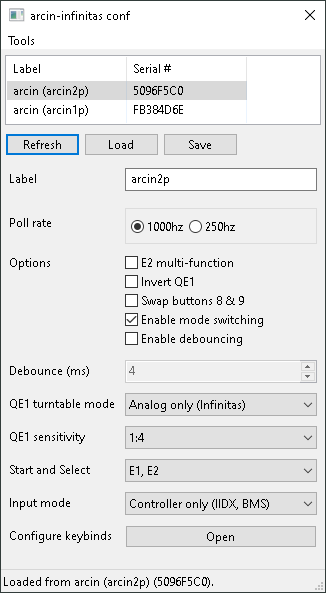
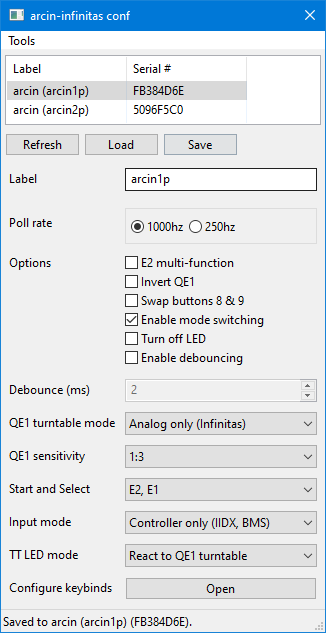
update to latest version

Changed region(s): [[0.0, 0.0, 1.0, 1.0], [0.0, 0.3339, 0.1534, 0.4553]]

diff --git a/main.py b/main.py
@@ -74,6 +74,12 @@ INPUT_MODE_OPTIONS = [
     "Both controller and keyboard"
 ]
 
+LED_OPTIONS = [
+    "Default",
+    "React to QE1 turntable",
+    "HID-controlled",
+]
+
 ARCIN_CONFIG_FLAG_SEL_MULTI_TAP          = (1 << 0)
 ARCIN_CONFIG_FLAG_INVERT_QE1             = (1 << 1)
 ARCIN_CONFIG_FLAG_SWAP_8_9               = (1 << 2)
@@ -84,6 +90,9 @@ ARCIN_CONFIG_FLAG_ANALOG_TT_FORCE_ENABLE = (1 << 6)
 ARCIN_CONFIG_FLAG_KEYBOARD_ENABLE        = (1 << 7)
 ARCIN_CONFIG_FLAG_JOYINPUT_DISABLE       = (1 << 8)
 ARCIN_CONFIG_FLAG_MODE_SWITCHING_ENABLE  = (1 << 9)
+ARCIN_CONFIG_FLAG_LED_OFF                = (1 << 10)
+ARCIN_CONFIG_FLAG_TT_LED_REACTIVE        = (1 << 11)
+ARCIN_CONFIG_FLAG_TT_LED_HID             = (1 << 12)
 
 def get_devices():
     hid_filter = hid.HidDeviceFilter(vendor_id=VID, product_id=PID)
@@ -181,6 +190,7 @@ class MainWindowFrame(wx.Frame):
     swap89_check = None
     debounce_check = None
     mode_switch_check = None
+    led_off_check = None
 
     qe1_tt_ctrl = None
     debounce_ctrl = None
@@ -190,13 +200,15 @@ class MainWindowFrame(wx.Frame):
 
     input_mode_ctrl = None
 
+    led_mode_ctrl = None
+
     keybinds_button = None
     keybinds_frame = None
 
     keycodes = None
 
     def __init__(self, *args, **kw):
-        default_size = (340, 600)
+        default_size = (340, 640)
         kw['size'] = default_size
         kw['style'] = (
             wx.RESIZE_BORDER |
@@ -299,6 +311,13 @@ class MainWindowFrame(wx.Frame):
         grid.Add(self.input_mode_ctrl, pos=(row, 1), flag=wx.EXPAND)
         row += 1
 
+        led_mode_label = wx.StaticText(panel, label="TT LED mode")
+        self.led_mode_ctrl = wx.Choice(panel, choices=LED_OPTIONS)
+        self.led_mode_ctrl.Select(0)
+        grid.Add(led_mode_label, pos=(row, 0), flag=wx.ALIGN_CENTER_VERTICAL)
+        grid.Add(self.led_mode_ctrl, pos=(row, 1), flag=wx.EXPAND)
+        row += 1
+
         keybinds_label = wx.StaticText(panel, label="Configure keybinds")
         self.keybinds_button = wx.Button(panel, label="Open")
         self.keybinds_button.Bind(wx.EVT_BUTTON, self.on_keybinds_button)
@@ -366,8 +385,13 @@ class MainWindowFrame(wx.Frame):
         self.mode_switch_check.SetToolTip(
             """Hold [Start + Sel + 1] for 3 seconds to switch input mode.
 Hold [Start + Sel + 3] for 3 seconds to switch turntable mode.
+Hold [Start + Sel + 5] for 3 seconds to switch LED state.
 These only take in effect while plugged in; they are reset when unplugged""")
         box.Add(self.mode_switch_check, **box_kw)
+
+        self.led_off_check = wx.CheckBox(parent, label="Turn off LED")
+        self.swap89_check.SetToolTip("Check this to keep the lights out.")
+        box.Add(self.led_off_check, **box_kw)
 
         self.debounce_check = wx.CheckBox(parent, label="Enable debouncing")
         self.debounce_check.SetToolTip(
@@ -483,6 +507,8 @@ These only take in effect while plugged in; they are reset when unplugged""")
             flags |= ARCIN_CONFIG_FLAG_DEBOUNCE
         if self.mode_switch_check.IsChecked():
             flags |= ARCIN_CONFIG_FLAG_MODE_SWITCHING_ENABLE
+        if self.led_off_check.IsChecked():
+            flags |= ARCIN_CONFIG_FLAG_LED_OFF
 
         if self.poll_rate_ctrl.GetSelection() == 1:
             flags |= ARCIN_CONFIG_FLAG_250HZ_MODE
@@ -500,6 +526,11 @@ These only take in effect while plugged in; they are reset when unplugged""")
         elif self.input_mode_ctrl.GetSelection() == 2:
             # both gamepad and keyboard
             flags |= ARCIN_CONFIG_FLAG_KEYBOARD_ENABLE
+
+        if self.led_mode_ctrl.GetSelection() == 1:
+            flags |= ARCIN_CONFIG_FLAG_TT_LED_REACTIVE
+        elif self.led_mode_ctrl.GetSelection() == 2:
+            flags |= ARCIN_CONFIG_FLAG_TT_LED_HID
             
         if 2 <= self.debounce_ctrl.GetValue() <= 10:
             debounce_ticks = self.debounce_ctrl.GetValue()
@@ -548,6 +579,9 @@ These only take in effect while plugged in; they are reset when unplugged""")
         self.mode_switch_check.SetValue(
             bool(conf.flags & ARCIN_CONFIG_FLAG_MODE_SWITCHING_ENABLE))
 
+        self.led_off_check.SetValue(
+            bool(conf.flags & ARCIN_CONFIG_FLAG_LED_OFF))
+
         if conf.flags & ARCIN_CONFIG_FLAG_250HZ_MODE:
             self.poll_rate_ctrl.Select(1)
         else:
@@ -568,6 +602,13 @@ These only take in effect while plugged in; they are reset when unplugged""")
             self.input_mode_ctrl.Select(2)
         else:
             self.input_mode_ctrl.Select(0)
+
+        if conf.flags & ARCIN_CONFIG_FLAG_TT_LED_REACTIVE:
+            self.led_mode_ctrl.Select(1)
+        elif conf.flags & ARCIN_CONFIG_FLAG_TT_LED_HID:
+            self.led_mode_ctrl.Select(2)
+        else:
+            self.led_mode_ctrl.Select(0)
 
         self.debounce_ctrl.SetValue(conf.debounce_ticks)
 
